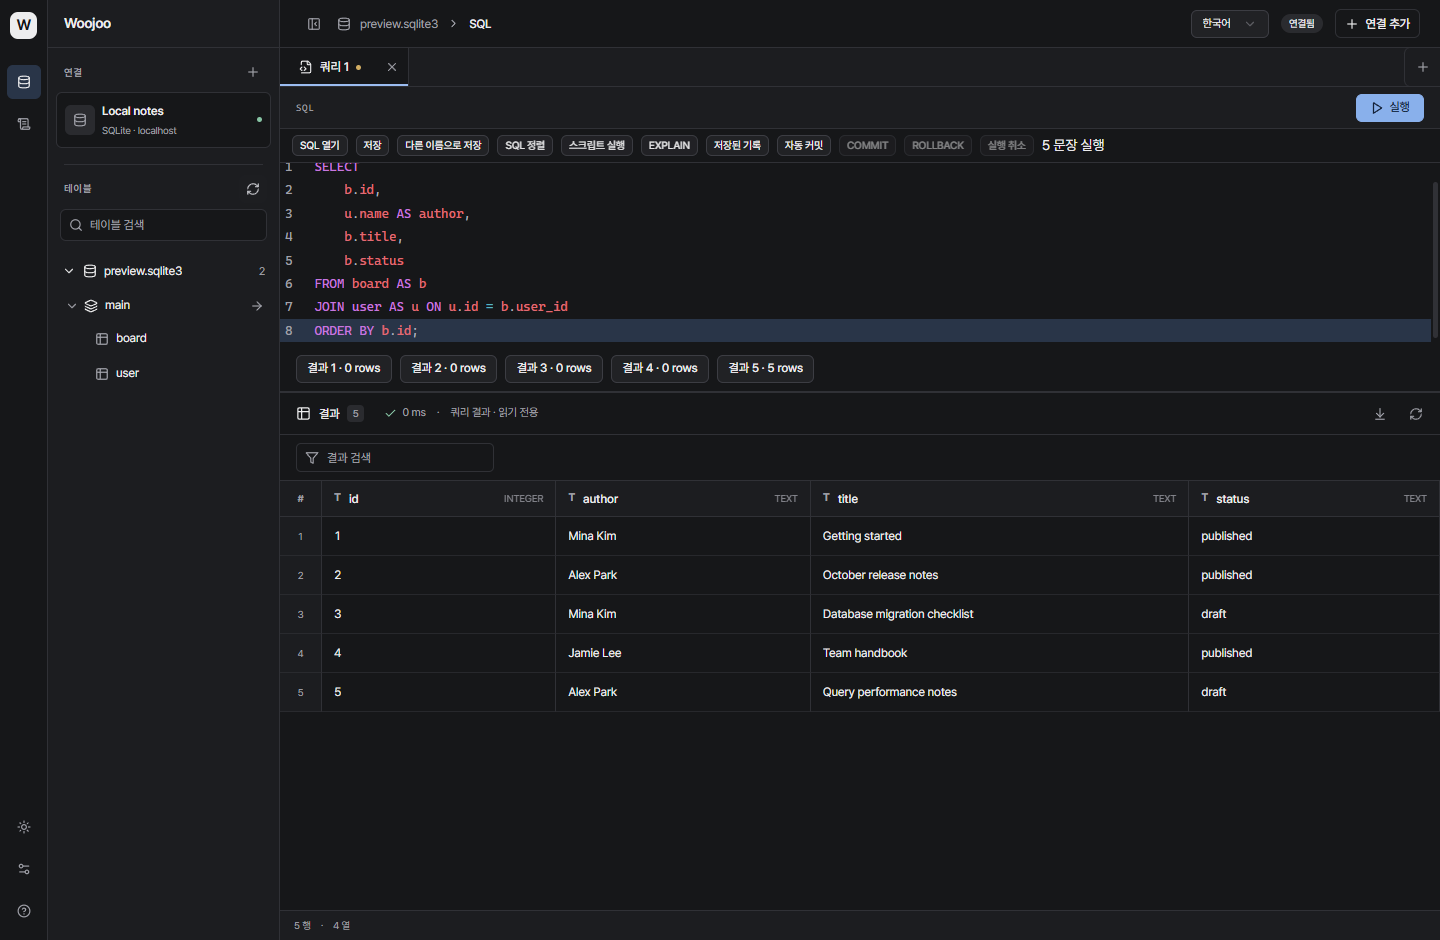
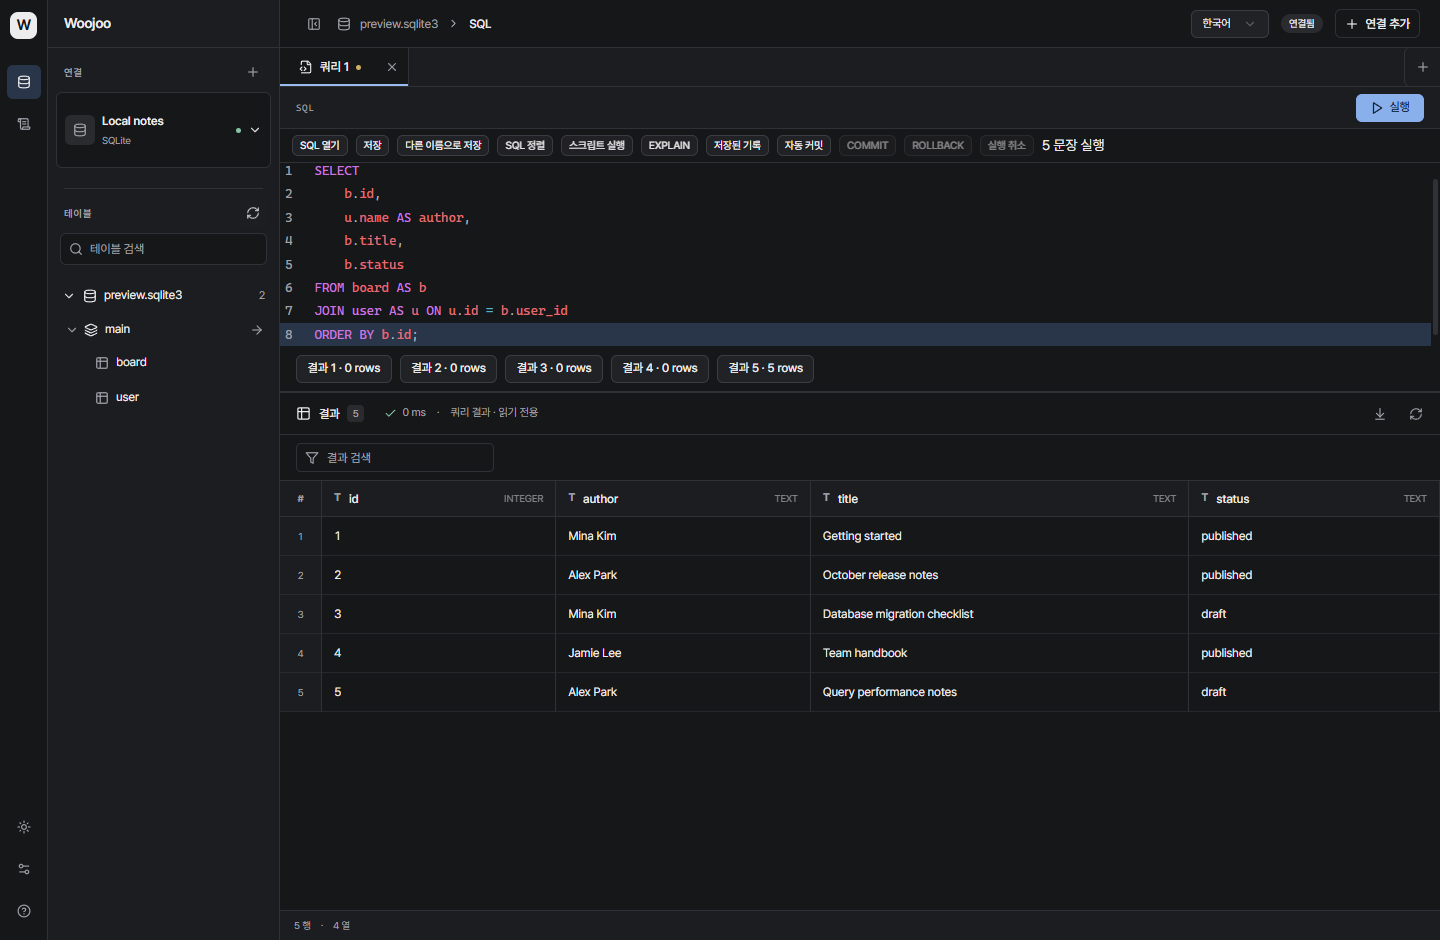
feat: keep sidebar connection area fixed with searchable connection switcher

diff --git a/src/App.tsx b/src/App.tsx
@@ -1,3 +1,4 @@
+import { ConnectionSwitcher } from './ConnectionSwitcher';
 import { useConfirm } from './components/ConfirmProvider';
 import { ExecutionsPage, type ExecutionEntry } from './ExecutionsPage';
 import { listen } from '@tauri-apps/api/event';
@@ -399,6 +400,8 @@ export default function App() {
   useEffect(()=>{let cancelled=false;setCompletionSchema({});if(!connected)return;let cursor=0;const fields:Record<string,string[]>={};const worker=async()=>{while(!cancelled&&cursor<tableList.length){const table=tableList[cursor++];try{const cols=await api.describeTable(active,table);if(cancelled)return;fields[table.schema+'.'+table.name]=cols.map(c=>c.name);if(tableList.filter(t=>t.name===table.name).length===1)fields[table.name]=cols.map(c=>c.name);setCompletionSchema({...fields});}catch{/* A metadata failure must not prevent SQL editing. */}}};void Promise.all(Array.from({length:Math.min(3,tableList.length)},worker));return()=>{cancelled=true;};},[active,tableList,catalogVersion]);
   const visibleTables = tableList.filter(t => `${t.schema}.${t.name}`.toLowerCase().includes(search.toLowerCase()));
   const schemas = [...new Set(visibleTables.map(t => t.schema))];
+  const selectableConnections = connections.filter(c=>fixtureMode||c.session!=='demo').sort((a,b)=>(a.profile.group??'').localeCompare(b.profile.group??'')||a.profile.name.localeCompare(b.profile.name));
+  const currentConnection = selectableConnections.find(c=>c.session===active);
   return <div className="app">
     <aside className="rail">
       <span className="brand-mark" aria-label="Woojoo">W</span>
@@ -409,7 +412,7 @@ export default function App() {
     {sidebarOpen && <aside className="sidebar" id="database-sidebar" onContextMenu={event => { if (event.target instanceof HTMLInputElement) return; menuFor([{label:t("연결 추가"),action:()=>setShowConnect(true)},{label:t("목록 새로고침"),action:refreshTables,disabled:busy}]).onContextMenu(event); }}>
       <div className="workspace-brand"><span>Woojoo</span></div>
       <div className="section-label"> {t("연결")} <Button variant="ghost" size="bare" title={t("연결 추가")} aria-label={t("새 연결")} onClick={() => setShowConnect(true)}><Plus size={16}/></Button></div>
-      <div className="connections">{connections.filter(c=>fixtureMode||c.session!=='demo').sort((a,b)=>(a.profile.group??'').localeCompare(b.profile.group??'')).map(c => <Button variant="ghost" size="bare" key={c.session} {...menuFor([
+      <div className="connections">{selectableConnections.length>0&&<ConnectionSwitcher connections={selectableConnections} active={active} onSelect={id=>{editorSelection.current='';void selectConnection(id);}} onAdd={()=>setShowConnect(true)}>{currentConnection ? (()=>{const c=currentConnection;return <Button variant="ghost" size="bare" key={c.session} {...menuFor([
         {label:t('연결 선택'), action:()=>selectConnection(c.session)},
         {label:t('호스트 복사'), action:()=>void copyText(c.profile.host)},
         {label:tr('프로필 수정 / 다시 연결','Edit profile / reconnect'),action:()=>{setEditProfile(c.profile);setShowConnect(true);},disabled:c.session==='demo'},
@@ -417,10 +420,10 @@ export default function App() {
         {label:tr('연결 끊기','Disconnect'),action:()=>void disconnectProfile(c),disabled:c.session==='demo'||c.session.startsWith('saved:')},
         {label:tr('프로필 삭제','Delete profile'),action:()=>void deleteProfile(c),disabled:c.session==='demo'},
         {label:t('연결 추가'), action:()=>setShowConnect(true), divider:true},
-      ])} className={`connection ${active === c.session ? 'active' : ''}`} onClick={() => { editorSelection.current = ''; selectConnection(c.session); }}>
+      ])} className={`connection ${active === c.session ? 'active' : ''}`} aria-label={tr('연결 전환','Switch connection')}>
         <span className={`db-icon ${c.profile.engine !== 'postgres' ? 'mysql' : ''}`}><Database size={18}/></span>
-        <span className="connection-name"><span className="connection-title" title={c.profile.name}>{c.profile.name}</span>{(c.profile.group||c.profile.environment||c.profile.readOnly)&&<small>{[c.profile.group,c.profile.environment,c.profile.readOnly?'RO':null].filter(Boolean).join(' · ')}</small>}<small>{c.profile.engine === 'sqlite' ? 'SQLite' : c.profile.engine === 'postgres' ? 'PostgreSQL' : c.profile.engine === 'mariadb' ? 'MariaDB' : 'MySQL'} <span>· {c.session === 'demo' ? 'Demo' : c.profile.host}</span></small></span><span className={`live-dot ${c.session.startsWith('saved:')?'offline':''}`} data-environment={c.session.startsWith('saved:')?undefined:c.profile.environment}/>
-      </Button>)}</div>
+        <span className="connection-name"><span className="connection-title" title={c.profile.name}>{c.profile.name}</span>{(c.profile.group||c.profile.environment||c.profile.readOnly)&&<small>{[c.profile.group,c.profile.environment,c.profile.readOnly?'RO':null].filter(Boolean).join(' · ')}</small>}<small>{c.profile.engine === 'sqlite' ? 'SQLite' : c.profile.engine === 'postgres' ? 'PostgreSQL' : c.profile.engine === 'mariadb' ? 'MariaDB' : 'MySQL'} {c.profile.engine!=='sqlite'&&<span>· {c.session === 'demo' ? 'Demo' : c.profile.host}</span>}</small></span><span className={`live-dot ${c.session.startsWith('saved:')?'offline':''}`} data-environment={c.session.startsWith('saved:')?undefined:c.profile.environment}/>
+      <ChevronDown size={14}/></Button>;})() : <Button variant="ghost" size="bare" className="connection connection-placeholder" aria-label={tr('연결 전환','Switch connection')}><Database size={18}/><span>{t('연결 선택')}</span><ChevronDown size={14}/></Button>}</ConnectionSwitcher>}</div>
       {!emptyWorkspace&&<><Separator className="divider"/>
       <div className="section-label"> {t("테이블")} <Button variant="ghost" size="bare" title={t("목록 새로고침")} disabled={busy} onClick={() => void perform(async () => { const list = await api.tables(active); if (activeSessionRef.current === active) setTableList(list); })}><RefreshCw size={14}/></Button></div>
       <label className="search-field"><Search size={14}/><Input aria-label={t("테이블 검색")} placeholder={t("테이블 검색")} value={search} onChange={e => setSearch(e.target.value)}/></label>

diff --git a/tests/connection-switcher.spec.ts b/tests/connection-switcher.spec.ts
@@ -1,0 +1,57 @@
+import { test, expect } from './fixtures';
+
+test('many saved connections do not reduce table tree space and can be searched and switched', async ({ browser }) => {
+  const heights=[];
+  for (const count of [1,16]) {
+    const page=await browser.newPage({viewport:{width:960,height:700}});
+    await page.addInitScript(count=>{
+      if(localStorage.getItem('woojoo-profiles-v1'))return;
+      localStorage.setItem('woojoo-profiles-v1',JSON.stringify(Array.from({length:count},(_,i)=>({id:'db-'+i,name:'Database '+String(i+1).padStart(2,'0'),engine:'sqlite',host:'',port:0,database:'database-'+i+'.sqlite3',username:'',tls:false,group:i%2?'Personal':'Work',environment:i%2?'development':'production'}))));
+      localStorage.setItem('woojoo-active-profile','db-0');
+    },count);
+    await page.goto('/');
+    await expect(page.locator('.connection')).toHaveCount(1);
+    heights.push((await page.locator('.tree').boundingBox())!.height);
+    await page.getByRole('button',{name:'연결 전환',exact:true}).click();
+    await expect(page.getByRole('textbox',{name:'연결 검색'})).toBeFocused();
+    await expect(page.locator('[data-connection-option]')).toHaveCount(count);
+    const before=await page.locator('.tree').boundingBox();
+    expect(before!.height).toBe(heights.at(-1));
+    if(count===16){
+      expect(await page.locator('.connection-picker-list').evaluate(el=>el.scrollHeight>el.clientHeight)).toBe(true);
+      await page.getByRole('textbox',{name:'연결 검색'}).fill('Database 16');
+      await expect(page.locator('[data-connection-option]')).toHaveCount(1);
+      await page.keyboard.press('ArrowDown');
+      await expect(page.locator('[data-connection-option]')).toBeFocused();
+      await page.keyboard.press('Enter');
+      await expect(page.locator('.connection-name')).toContainText('Database 16');
+      await expect(page.locator('.connection-picker')).not.toBeVisible();
+      await expect(page.getByRole('button',{name:'연결 전환',exact:true})).toBeFocused();
+      expect((await page.locator('.tree').boundingBox())!.height).toBe(heights[0]);
+      await page.reload();
+      await expect(page.locator('.connection-name')).toContainText('Database 16');
+      await page.getByRole('button',{name:'연결 전환',exact:true}).click();
+      await page.getByRole('textbox',{name:'연결 검색'}).fill('no-such-profile');
+      await expect(page.getByText('일치하는 연결이 없습니다.')).toBeVisible();
+      await page.keyboard.press('Escape');
+      await expect(page.locator('.connection-picker')).not.toBeVisible();
+    }
+    await page.close();
+  }
+  expect(heights[0]).toBe(heights[1]);
+});
+
+test('switching connections still protects pending data changes',async({page})=>{
+  await page.addInitScript(()=>localStorage.setItem('woojoo-profiles-v1',JSON.stringify([{id:'other',name:'Other database',engine:'sqlite',host:'',port:0,database:'other.db',username:'',tls:false}])));
+  await page.goto('/');
+  await page.getByRole('button',{name:'연결 전환',exact:true}).click();
+  await page.locator('[data-connection-option]').filter({hasText:'Woojoo playground'}).click();
+  await expect(page.getByText('Alex Morgan',{exact:true})).toBeVisible();
+  await page.getByRole('button',{name:'데이터 도구',exact:true}).click();
+  await page.getByLabel('1 name',{exact:true}).fill('Keep edited name');
+  await page.getByRole('button',{name:'연결 전환',exact:true}).click();
+  await page.locator('[data-connection-option]').filter({hasText:'Other database'}).click();
+  await page.getByRole('alertdialog').getByRole('button',{name:'취소',exact:true}).click();
+  await expect(page.locator('.connection-name')).toContainText('Woojoo playground');
+  await expect(page.getByLabel('1 name',{exact:true})).toHaveValue('Keep edited name');
+});

diff --git a/src/ConnectionSwitcher.tsx b/src/ConnectionSwitcher.tsx
@@ -1,0 +1,44 @@
+import { useRef, useState, type ReactElement } from 'react';
+import { Popover } from 'radix-ui';
+import { Check, Database, Plus, Search } from 'lucide-react';
+import { Button } from './components/ui/button';
+import { Input } from './components/ui/input';
+import { useLanguage } from './i18n';
+import type { Profile } from './model';
+
+type Connection = { profile: Profile; session: string };
+export function ConnectionSwitcher({ connections, active, onSelect, onAdd, children }: {
+  connections: Connection[]; active: string; onSelect: (session: string) => void;
+  onAdd: () => void; children: ReactElement;
+}) {
+  const {language}=useLanguage();
+  const tr=(ko:string,en:string)=>language==='ko'?ko:en;
+  const [open,setOpen]=useState(false),[search,setSearch]=useState('');
+  const input=useRef<HTMLInputElement>(null);
+  const filtered=connections.filter(({profile})=>[profile.name,profile.group,profile.environment,profile.engine,profile.host,profile.database].join(' ').toLowerCase().includes(search.trim().toLowerCase()));
+  return <Popover.Root open={open} onOpenChange={value=>{setOpen(value);setSearch('');}}>
+    <Popover.Trigger asChild>{children}</Popover.Trigger>
+    <Popover.Portal><Popover.Content className="connection-picker" align="start" sideOffset={6} collisionPadding={12}
+      aria-label={tr('연결 전환','Switch connection')}
+      onOpenAutoFocus={event=>{event.preventDefault();input.current?.focus();}}
+      onKeyDown={event=>{
+        if(event.key!=='ArrowDown'&&event.key!=='ArrowUp')return;
+        const rows=Array.from(event.currentTarget.querySelectorAll<HTMLButtonElement>('[data-connection-option]'));
+        if(!rows.length)return;
+        event.preventDefault();
+        const index=rows.indexOf(document.activeElement as HTMLButtonElement);
+        const next=index<0?(event.key==='ArrowDown'?0:rows.length-1):(index+(event.key==='ArrowDown'?1:-1)+rows.length)%rows.length;
+        rows[next].focus();
+      }}>
+      <div className="connection-picker-search"><Search size={15}/><Input ref={input} aria-label={tr('연결 검색','Search connections')} placeholder={tr('이름, 그룹, 주소 검색','Search name, group, or host')} value={search} onChange={event=>setSearch(event.target.value)}/></div>
+      <div className="connection-picker-list">
+        {filtered.map(c=><Button key={c.session} variant="ghost" size="bare" data-connection-option aria-pressed={active===c.session} className="connection-picker-option" onClick={()=>{setOpen(false);setSearch('');onSelect(c.session);}}>
+          <Database size={16}/><span className="connection-picker-description"><strong>{c.profile.name}</strong><small>{[c.profile.group,c.profile.environment,c.profile.engine,c.profile.readOnly?'RO':null].filter(Boolean).join(' · ')}</small></span>
+          <span className={`live-dot ${c.session.startsWith('saved:')?'offline':''}`}/>{active===c.session?<Check size={15}/>:<span className="connection-picker-check"/>}
+        </Button>)}
+        {!filtered.length&&<p className="connection-picker-empty">{tr('일치하는 연결이 없습니다.','No matching connections.')}</p>}
+      </div>
+      <div className="connection-picker-footer"><Button variant="ghost" size="sm" onClick={()=>{setOpen(false);onAdd();}}><Plus size={14}/>{tr('연결 추가','Add connection')}</Button></div>
+    </Popover.Content></Popover.Portal>
+  </Popover.Root>;
+}

diff --git a/src/workspace-design.css b/src/workspace-design.css
@@ -125,3 +125,24 @@
   .sqlite-file-actions { display: flex; flex-wrap: wrap; gap: 8px; margin: -6px 0 18px; }
   .connection-modal .modal-actions { flex-wrap: wrap; gap: 10px; }
 }
+
+@layer components {
+  .connections { height: 80px; flex: 0 0 80px; }
+  .connections:empty { height: 0; flex-basis: 0; }
+  .connections .connection { height: 76px; gap: 8px; }
+  .connection-placeholder span { flex: 1; text-align: left; }
+  .connection-picker { z-index: 55; width: 320px; max-width: calc(100vw - 24px); max-height: var(--radix-popover-content-available-height); display: flex; flex-direction: column; overflow: hidden; padding: 6px; border: 1px solid var(--border); border-radius: 9px; background: var(--popover); color: var(--foreground); box-shadow: 0 12px 36px #0003; }
+  .connection-picker-search { display: flex; align-items: center; gap: 8px; padding: 6px; border-bottom: 1px solid var(--border); flex-shrink: 0; }
+  .connection-picker-search input { min-width: 0; height: 30px; border: 0; box-shadow: none; background: transparent; font-size: 12px; }
+  .connection-picker-list { max-height: 320px; min-height: 0; overflow-y: auto; padding: 4px 0; overscroll-behavior: contain; }
+  .connection-picker-option { display: flex; width: 100%; min-height: 54px; padding: 8px; gap: 8px; text-align: left; }
+  .connection-picker-option[aria-pressed=true] { background: var(--accent); }
+  .connection-picker-description { display: flex; flex: 1; min-width: 0; flex-direction: column; gap: 3px; }
+  .connection-picker-description strong,.connection-picker-description small { overflow: hidden; text-overflow: ellipsis; white-space: nowrap; }
+  .connection-picker-description strong { font-size: 12px; font-weight: 500; }
+  .connection-picker-description small { font-size: 10px; color: var(--muted-foreground); }
+  .connection-picker-check { width: 15px; flex-shrink: 0; }
+  .connection-picker-empty { margin: 0; padding: 20px 8px; font-size: 12px; color: var(--muted-foreground); text-align: center; }
+  .connection-picker-footer { border-top: 1px solid var(--border); padding-top: 4px; flex-shrink: 0; }
+  .connection-picker-footer button { width: 100%; justify-content: flex-start; }
+}

diff --git a/tests/aws-connection.spec.ts b/tests/aws-connection.spec.ts
@@ -22,7 +22,7 @@ test('AWS profile and region selection fill DB fields and use the existing conne
  await d.getByLabel('비밀번호',{exact:true}).fill('test-only');await d.getByRole('button',{name:'연결 테스트',exact:true}).click();await expect(d.getByRole('status')).toContainText('연결에 성공');
  const calls=await page.evaluate(()=>(window as any).calls);expect(calls.find((c:any)=>c.command==='aws_rds_instances').args).toEqual({profile:'prod',region:'ap-northeast-2'});expect(calls.find((c:any)=>c.command==='connect_db').args.profile).toMatchObject({engine:'postgres',database:'app',password:'test-only',tls:true});
  await d.getByLabel('AWS 리전').fill('us-east-1');await expect(d.getByLabel('비밀번호',{exact:true})).toHaveCount(0);await expect(d.getByRole('button',{name:'연결하기',exact:true})).toBeDisabled();await d.getByRole('button',{name:'RDS 조회'}).click();await expect(d.getByRole('status')).toContainText('인스턴스가 없습니다');
- await d.getByLabel('AWS 리전').fill('ap-northeast-2');await d.getByRole('button',{name:'RDS 조회'}).click();await d.getByLabel('RDS 인스턴스').selectOption('app-db');await expect(d.getByLabel('비밀번호',{exact:true})).toHaveValue('');await d.getByRole('button',{name:'연결하기',exact:true}).click();await expect(d).not.toBeVisible();await expect(page.locator('.connection-name')).toContainText(['Woojoo playground','app-db (ap-northeast-2)']);
+ await d.getByLabel('AWS 리전').fill('ap-northeast-2');await d.getByRole('button',{name:'RDS 조회'}).click();await d.getByLabel('RDS 인스턴스').selectOption('app-db');await expect(d.getByLabel('비밀번호',{exact:true})).toHaveValue('');await d.getByRole('button',{name:'연결하기',exact:true}).click();await expect(d).not.toBeVisible();await expect(page.locator('.connection-name')).toContainText('app-db (ap-northeast-2)');
 });
 for(const scenario of ['missing','emptyProfiles','expired','denied','regionDenied'])test(`AWS discovery handles ${scenario}`,async({page})=>{
  await mock(page,scenario);const d=page.getByRole('dialog');

diff --git a/tests/tabs.spec.ts b/tests/tabs.spec.ts
@@ -157,10 +157,12 @@ test('connections keep separate tabs while a query completes in the background',
   await page.getByRole('button', { name: '새 쿼리', exact: true }).click();
   await page.locator('.cm-content').fill('SELECT name FROM widgets');
   await page.locator('.run-button').click();
-  await page.locator('.connection').filter({ hasText: 'Woojoo playground' }).click();
+  await page.getByRole('button',{name:'연결 전환',exact:true}).click();
+  await page.locator('[data-connection-option]').filter({hasText:'Woojoo playground'}).click();
   await expect(page.locator('.data-grid tbody tr')).toHaveCount(2);
   await expect(page.locator('.cm-content')).toHaveText('SELECT * FROM users LIMIT 2;');
-  await page.locator('.connection').filter({ hasText: 'Mock DB' }).click();
+  await page.getByRole('button',{name:'연결 전환',exact:true}).click();
+  await page.locator('[data-connection-option]').filter({hasText:'Mock DB'}).click();
   await expect(page.getByText('Mock query result', { exact: true })).toBeVisible();
   await expect(page.locator('.cm-content')).toHaveText('SELECT name FROM widgets');
 });

diff --git a/README.en.md b/README.en.md
@@ -14,7 +14,7 @@ Captured from the actual Windows release using a separate SQLite database and fi
 
 | Area | Capabilities |
 | --- | --- |
-| Connections | PostgreSQL, MySQL, MariaDB, SQLite; connection testing; saved profiles; groups, environments, and read-only settings |
+| Connections | PostgreSQL, MySQL, MariaDB, SQLite; connection testing; searchable connection switcher; saved profiles; groups, environments, and read-only settings |
 | AWS RDS | Select a local AWS CLI profile, region, and RDS instance to populate connection details |
 | SQL workspace | Multiple tabs, highlighting, completion, formatting, SQL files, selection and script execution, parameters, EXPLAIN |
 | Sessions | Manual commit and rollback, query cancellation requests, restoration of SQL tabs and file metadata |
@@ -130,7 +130,7 @@ npm run test:release
 
 The binary is written to `src-tauri/target/release/woojoo-db.exe`. Use the Tauri CLI for distribution builds. A plain `cargo build --release` without the production protocol is deliberately rejected. UI tests use an installed Chrome browser. `npm run dev` is a browser UI preview; real database connections require the desktop app.
 
-For v0.1.0, 30 frontend unit tests, 59 browser UI tests, and 21 Rust tests passed. Two integration tests requiring external environments are excluded by default. Some browser tests mock native database/AWS communication; these checks do not establish compatibility with every server configuration. See the [detailed reference and container test commands (Korean)](docs/REFERENCE.ko.md).
+For v0.1.0, 30 frontend unit tests, 61 browser UI tests, and 21 Rust tests passed. Two integration tests requiring external environments are excluded by default. Some browser tests mock native database/AWS communication; these checks do not establish compatibility with every server configuration. See the [detailed reference and container test commands (Korean)](docs/REFERENCE.ko.md).
 
 ## License and credits
 
